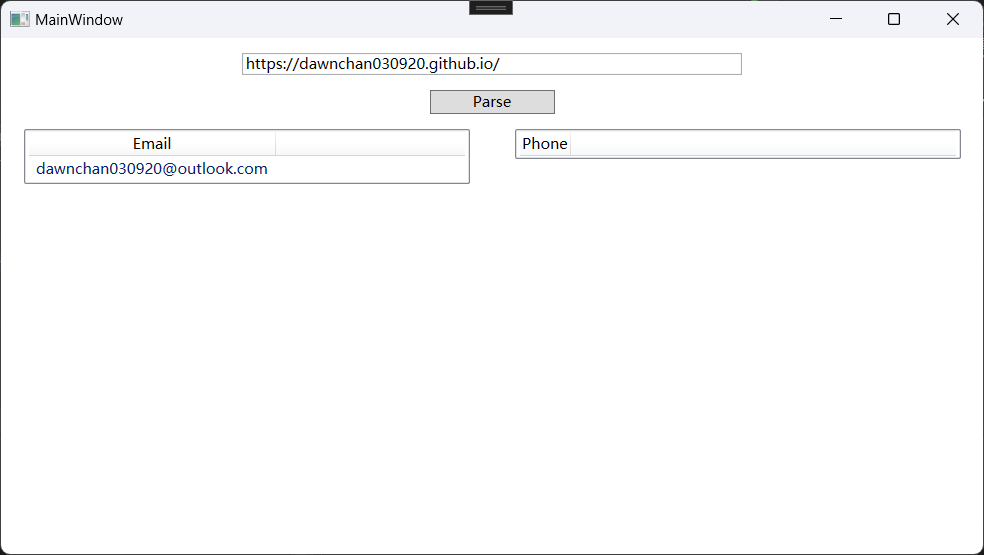
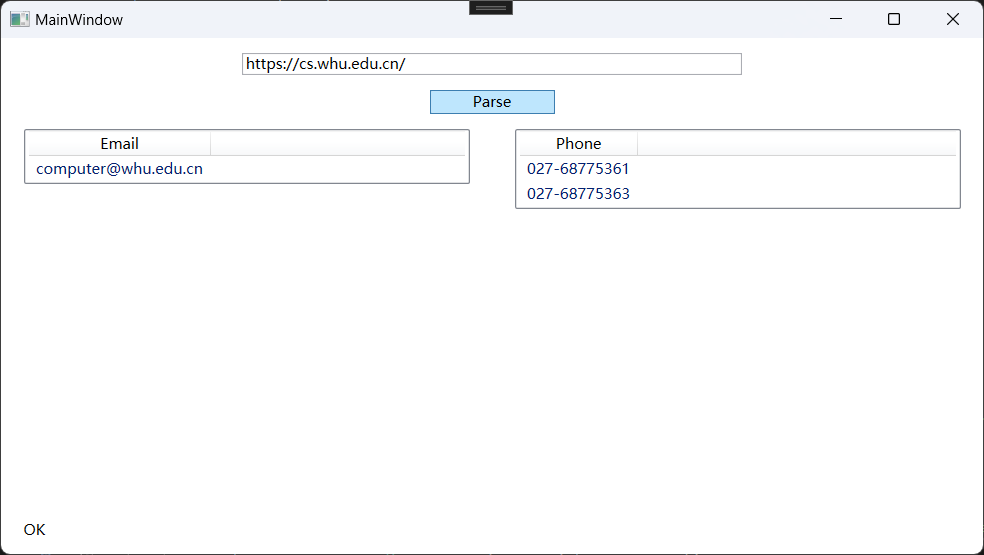
[add] add new screenshots including 2 status

diff --git a/09/README.md b/09/README.md
@@ -7,4 +7,4 @@ Parse emails and phone numbers in a given url.
 ## Screenshots
 
 ![result](./screenshots/result.png)
-![result](./screenshots/result2.png)
+![error](./screenshots/error.png)
